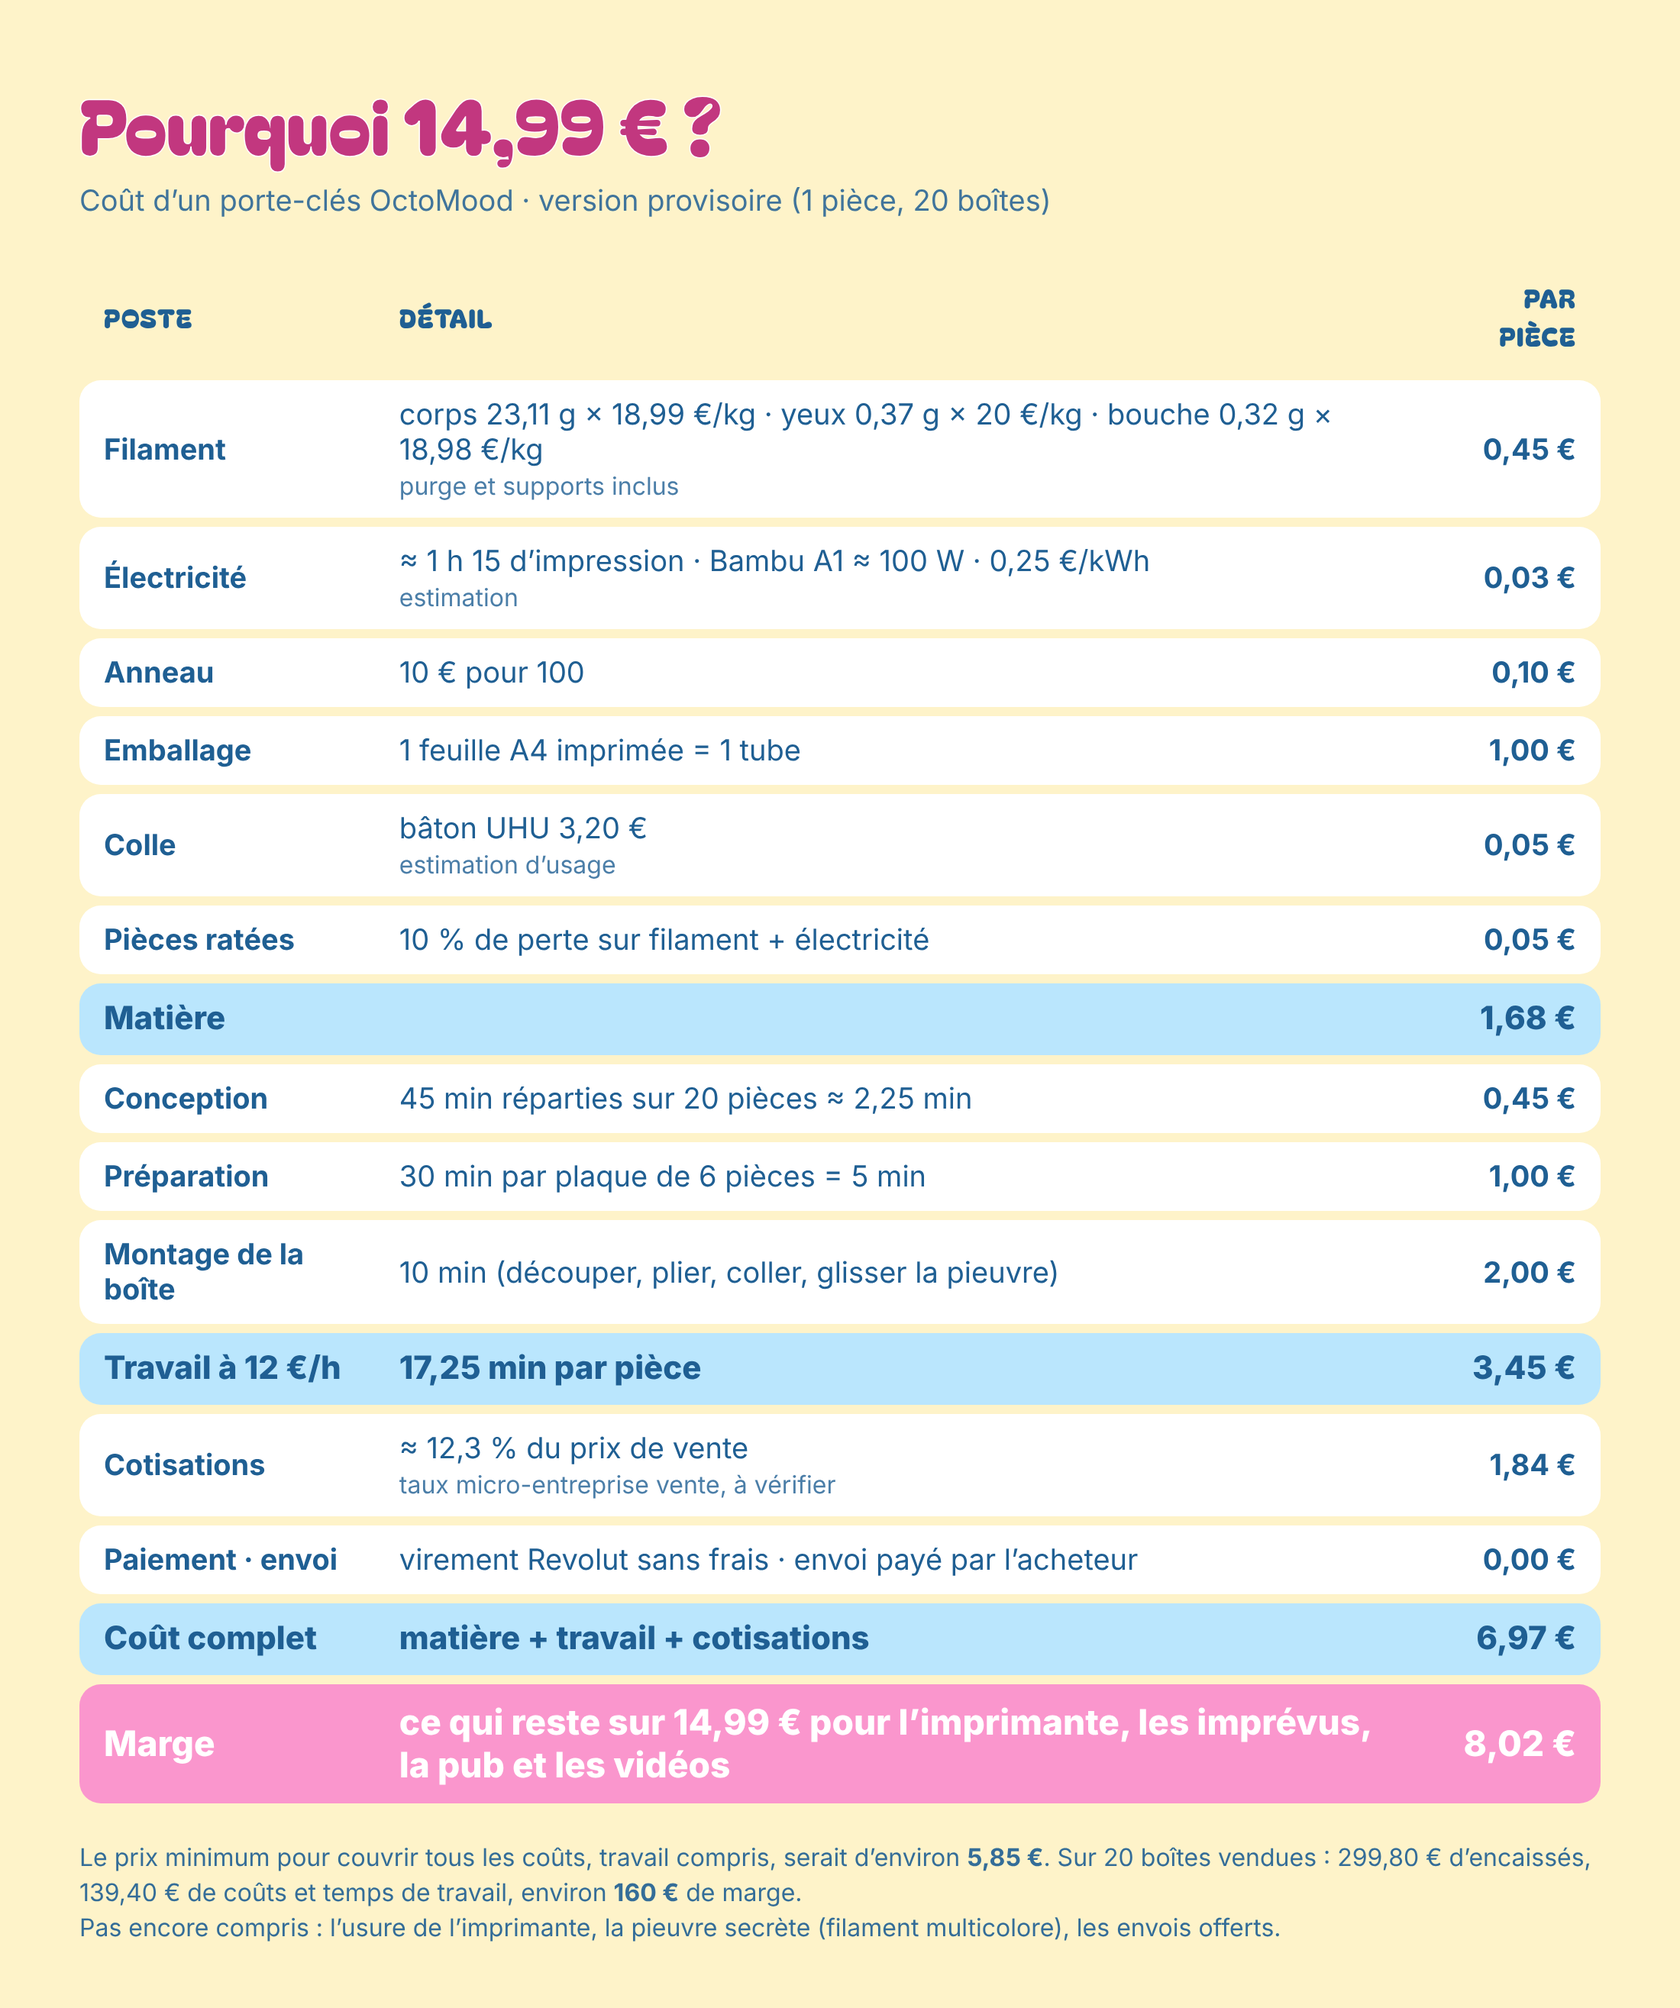
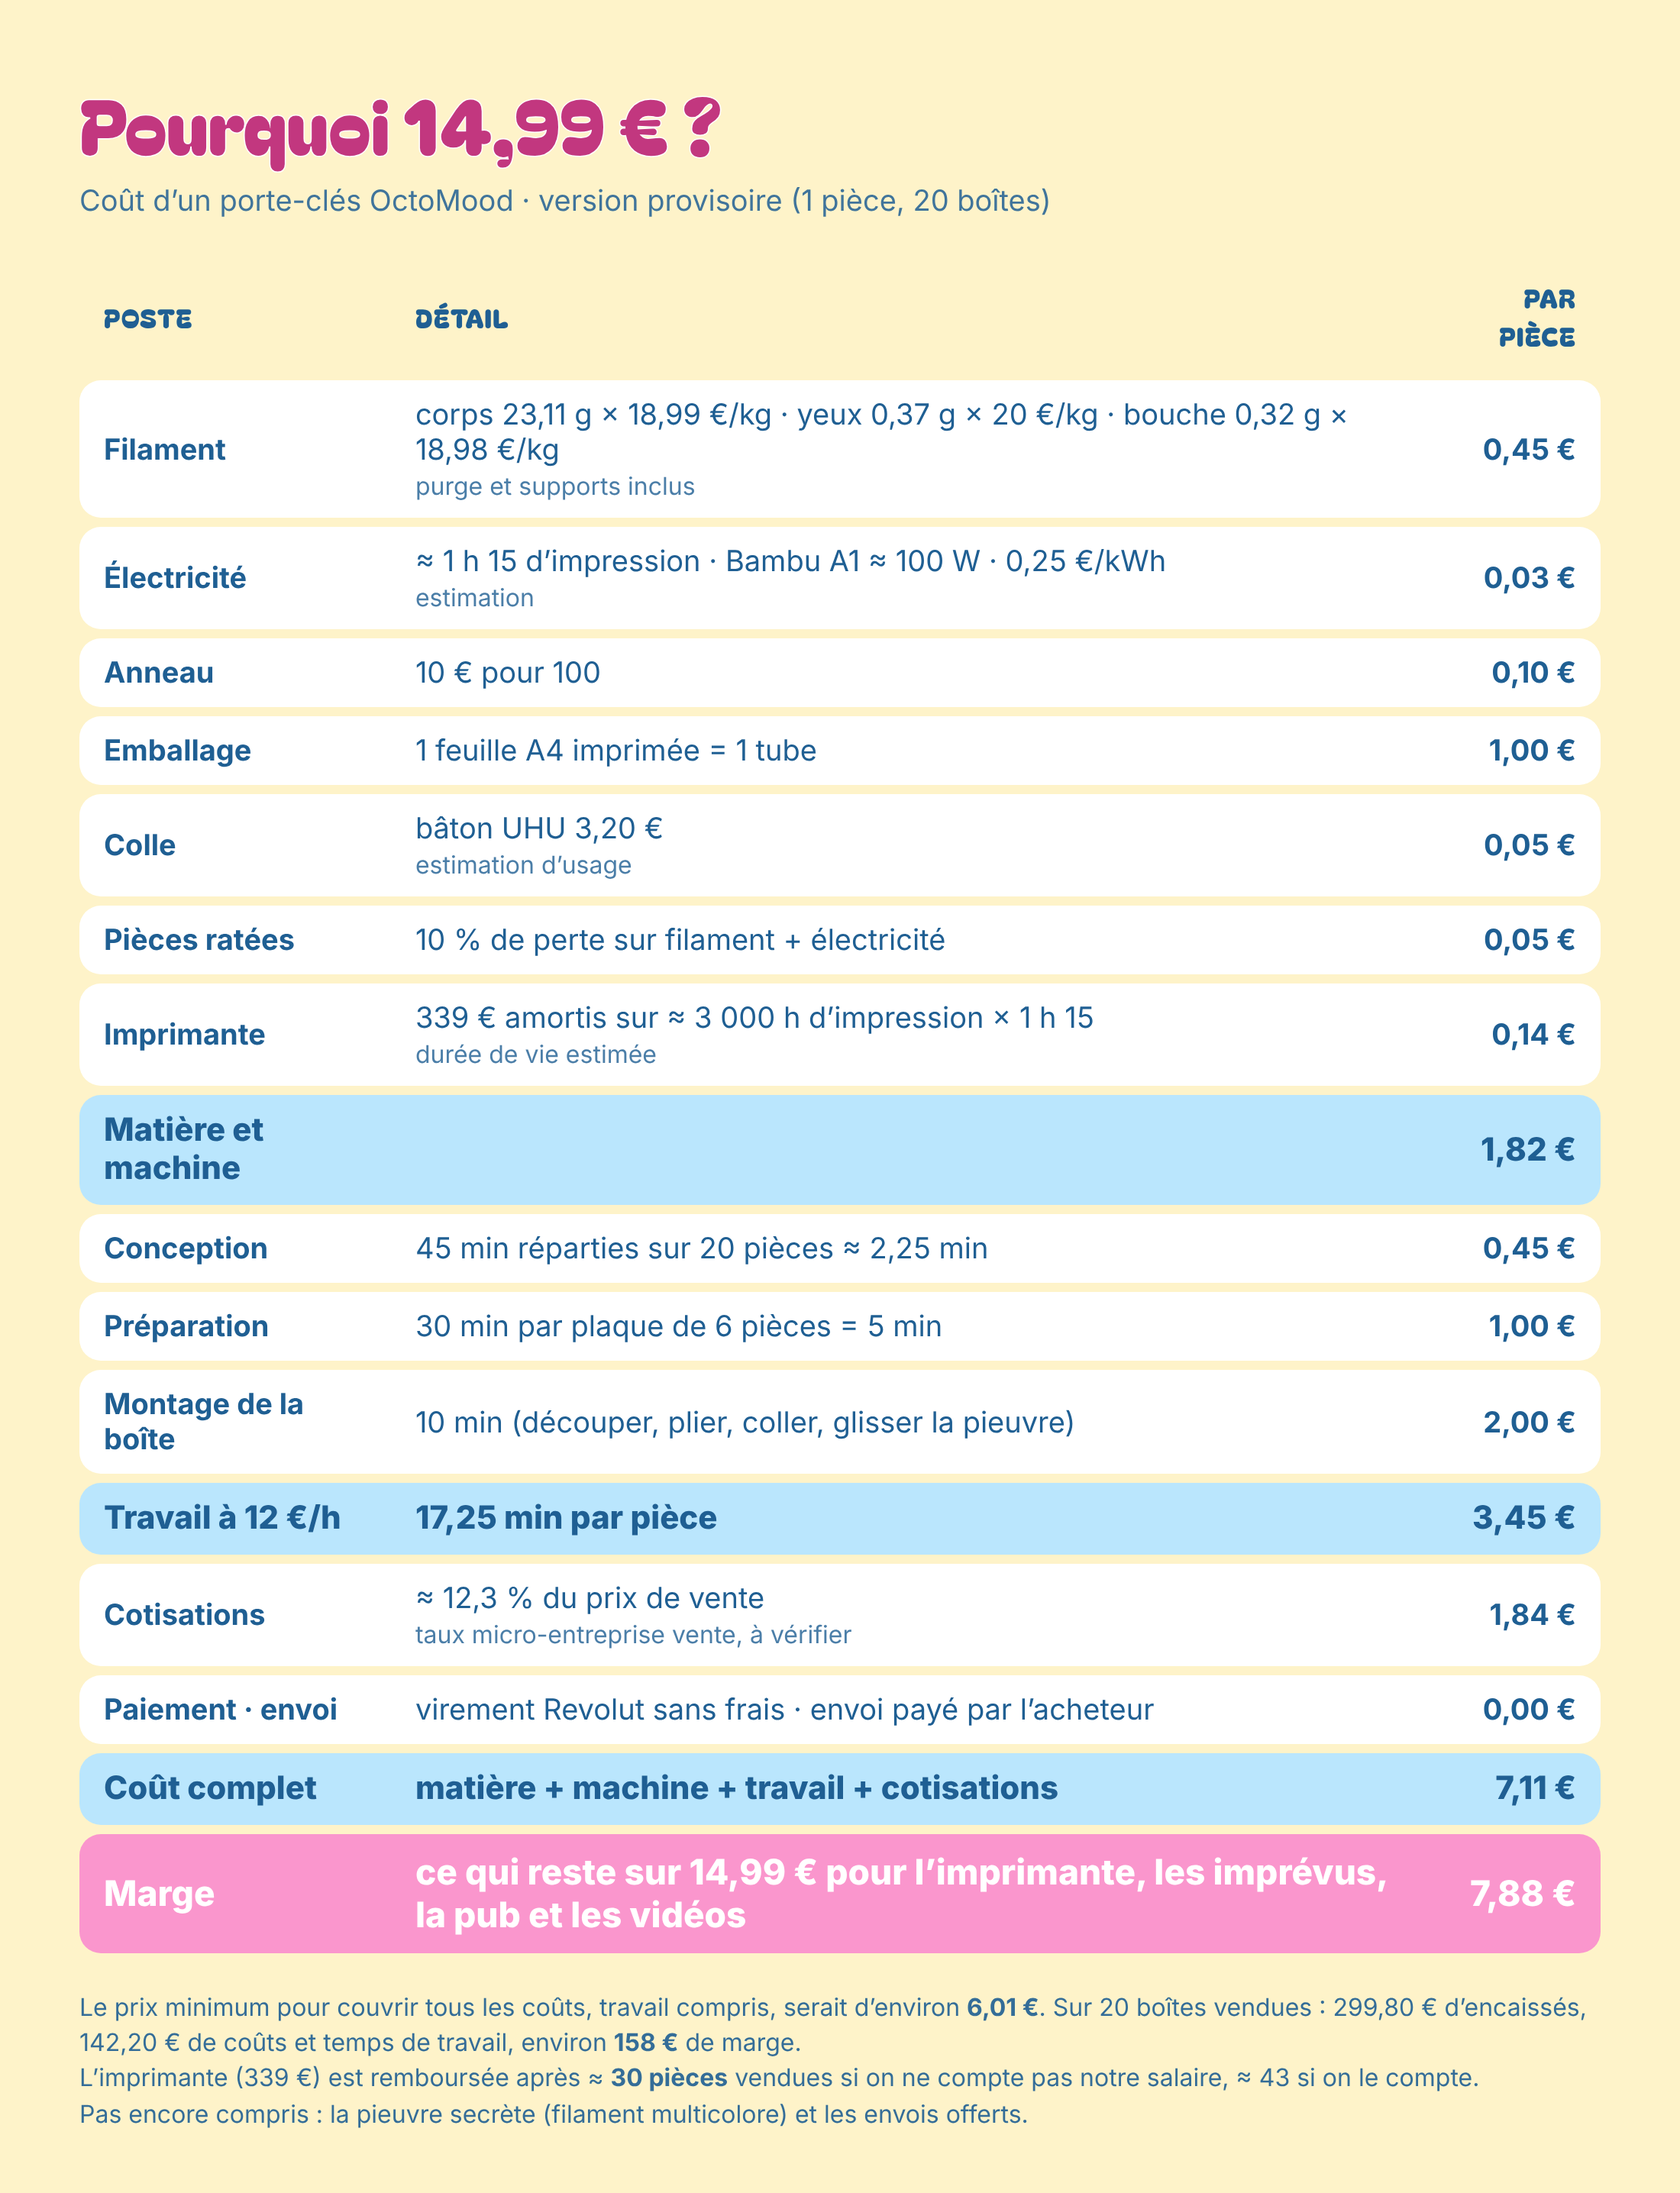
Cost table: include printer amortization
Claude-Session: https://claude.ai/code/session_01AQMCNjGQ1RjZg5f4v5YFio

Changed region(s): [[0.0309, 0.0312, 0.9582, 0.9665], [0.4945, 0.0935, 0.6182, 0.1247]]

diff --git a/pulpos-mystery-box/costes/prix.html b/pulpos-mystery-box/costes/prix.html
@@ -28,14 +28,15 @@ tr.g td:first-child{border-radius:14px 0 0 14px}tr.g td:last-child{border-radius
 <tr class="r"><td>Emballage</td><td>1 feuille A4 imprimée = 1 tube</td><td>1,00 €</td></tr>
 <tr class="r"><td>Colle</td><td>bâton UHU 3,20 €<span class="d">estimation d’usage</span></td><td>0,05 €</td></tr>
 <tr class="r"><td>Pièces ratées</td><td>10 % de perte sur filament + électricité</td><td>0,05 €</td></tr>
-<tr class="t"><td>Matière</td><td></td><td>1,68 €</td></tr>
+<tr class="r"><td>Imprimante</td><td>339 € amortis sur ≈ 3 000 h d’impression × 1 h 15<span class="d">durée de vie estimée</span></td><td>0,14 €</td></tr>
+<tr class="t"><td>Matière et machine</td><td></td><td>1,82 €</td></tr>
 <tr class="r"><td>Conception</td><td>45 min réparties sur 20 pièces ≈ 2,25 min</td><td>0,45 €</td></tr>
 <tr class="r"><td>Préparation</td><td>30 min par plaque de 6 pièces = 5 min</td><td>1,00 €</td></tr>
 <tr class="r"><td>Montage de la boîte</td><td>10 min (découper, plier, coller, glisser la pieuvre)</td><td>2,00 €</td></tr>
 <tr class="t"><td>Travail à 12 €/h</td><td>17,25 min par pièce</td><td>3,45 €</td></tr>
 <tr class="r"><td>Cotisations</td><td>≈ 12,3 % du prix de vente <span class="d">taux micro-entreprise vente, à vérifier</span></td><td>1,84 €</td></tr>
 <tr class="r"><td>Paiement · envoi</td><td>virement Revolut sans frais · envoi payé par l’acheteur</td><td>0,00 €</td></tr>
-<tr class="t"><td>Coût complet</td><td>matière + travail + cotisations</td><td>6,97 €</td></tr>
-<tr class="g"><td>Marge</td><td>ce qui reste sur 14,99 € pour l’imprimante, les imprévus, la pub et les vidéos</td><td>8,02 €</td></tr>
+<tr class="t"><td>Coût complet</td><td>matière + machine + travail + cotisations</td><td>7,11 €</td></tr>
+<tr class="g"><td>Marge</td><td>ce qui reste sur 14,99 € pour l’imprimante, les imprévus, la pub et les vidéos</td><td>7,88 €</td></tr>
 </table>
-<div class="note">Le prix minimum pour couvrir tous les coûts, travail compris, serait d’environ <b>5,85 €</b>. Sur 20 boîtes vendues : 299,80 € d’encaissés, 139,40 € de coûts et temps de travail, environ <b>160 €</b> de marge.<br>Pas encore compris : l’usure de l’imprimante, la pieuvre secrète (filament multicolore), les envois offerts.</div>
+<div class="note">Le prix minimum pour couvrir tous les coûts, travail compris, serait d’environ <b>6,01 €</b>. Sur 20 boîtes vendues : 299,80 € d’encaissés, 142,20 € de coûts et temps de travail, environ <b>158 €</b> de marge.<br>L’imprimante (339 €) est remboursée après ≈ <b>30 pièces</b> vendues si on ne compte pas notre salaire, ≈ 43 si on le compte.<br>Pas encore compris : la pieuvre secrète (filament multicolore) et les envois offerts.</div>

diff --git a/pulpos-mystery-box/CONCEPTO.md b/pulpos-mystery-box/CONCEPTO.md
@@ -113,3 +113,4 @@ Fotos de ambiente: arena de playa con agua desenfocada y fondo marino turquesa c
 - Coste completo ≈ 6,97 €; precio mínimo ≈ 5,85 €; margen con 14,99 € ≈ 8,02 € por pieza (≈ 160 € con 20 cajas).
 - Pendiente: plato real de 6–8 pulpos (mañana), pulpo secreto con filamento multicolor, estatuto de la empresa, coste de la impresora.
 - Tabla en francés: `costes/prix.html` y `costes/prix.png`.
+- Impresora Bambu A1: 339 €. Amortizada en ≈ 3 000 h (estimado) → 0,14 € por pieza. Coste completo ≈ 7,11 €, margen ≈ 7,88 €/pieza, precio mínimo ≈ 6,01 €. Se recupera con ≈ 30 piezas vendidas sin contar el sueldo (≈ 43 contándolo).
